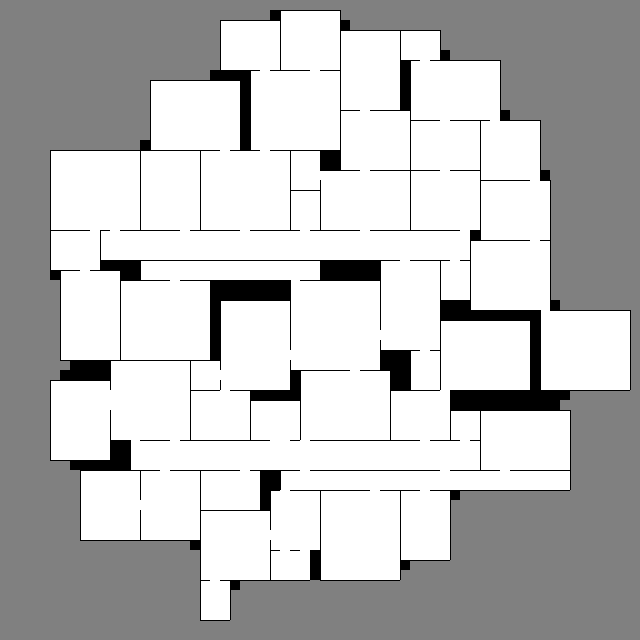
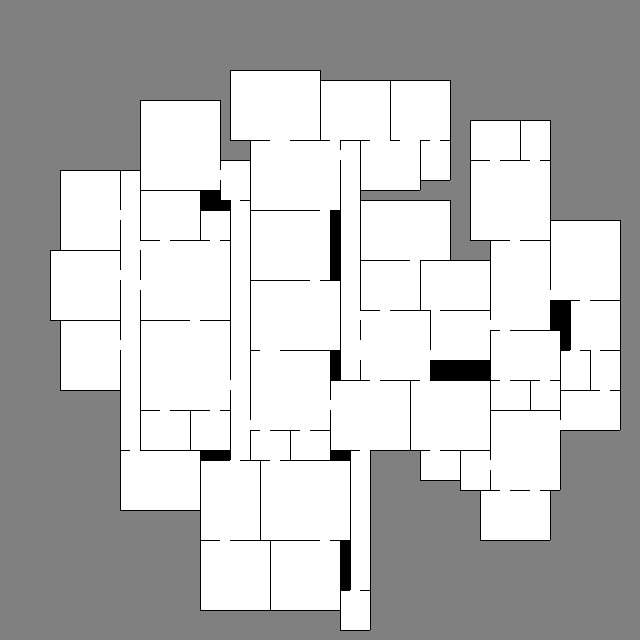
need better room generation

diff --git a/src/generators/buildings.rs b/src/generators/buildings.rs
@@ -248,51 +248,103 @@ pub fn generate_ground_floor(width: i32, height: i32) -> Floor {
     let mut floor = Floor::new_blank(width, height);
     let previous_floor = Floor::new_occupied(width, height);
     let mut has_another_room = false;
-    let mut collection = Vec::new();
     while let Some(x) = generate_room(&mut floor, &previous_floor, has_another_room) {
-        collection.push(x);
+        floor.rooms.push(x);
         has_another_room = true;
     }
-    floor.rooms = collection;
     floor
 }
 
 pub fn post_process_floor(floor: &mut Floor, width: i32, height: i32, circular: bool) {
-    'outer: loop {
-        let cx = floor.width() / 2;
-        let cy = floor.height() / 2;
-
-        for i in 0..floor.rooms.len() {
-            let mut hit = false;
-            for j in &floor.rooms[i].points {
-                let dx = j.x - cx;
-                let dy = j.y - cy;
-                if circular {
-                    let r2 = (width + height) * (width + height) / 4;
-                    if (dx * dx + dy * dy) > r2 {
-                        hit = true;
-                        break;
-                    }
-                } else {
-                    if dx.abs() > width || dy.abs() > height {
-                        hit = true;
-                        break;
-                    }
+    for j in 0..floor.rooms.len() {
+        let i = floor.rooms[j].clone();
+        let mut border_positions = Vec::new();
+        let point = Point {
+            x: i.min_x,
+            y: i.min_y,
+        };
+        let height = (i.max_y - i.min_y).abs();
+        let width = (i.max_x - i.min_x).abs();
+        let x_pos = i.min_x - 1;
+        for dy in point.y..point.y + height {
+            if let Some(t) = floor.get_checked(x_pos, dy) {
+                if t.is_occupied {
+                    border_positions.push(Point { x: x_pos, y: dy })
                 }
             }
-            if hit {
-                let t = floor.rooms.remove(i);
-                for j in &t.points {
-                    floor.get_mut(j.x, j.y).is_occupied = false;
-                    floor.get_mut(j.x, j.y).sides = [SideKind::Empty; 4];
-                    for k in &mut floor.rooms {
-                        k.boundary_positions.retain(|i| *i != *j);
+        }
+        let x_pos = point.x + width + 1;
+        for dy in point.y..point.y + height {
+            if let Some(t) = floor.get_checked(x_pos, dy) {
+                if t.is_occupied {
+                    border_positions.push(Point { x: x_pos, y: dy })
+                }
+            }
+        }
+        let y_pos = point.y - 1;
+        for dx in point.x..point.x + width {
+            if let Some(t) = floor.get_checked(dx, y_pos) {
+                if t.is_occupied {
+                    border_positions.push(Point { x: dx, y: y_pos })
+                }
+            }
+        }
+        let y_pos = point.y + height + 1;
+        for dx in point.x..point.x + width {
+            if let Some(t) = floor.get_checked(dx, y_pos) {
+                if t.is_occupied {
+                    border_positions.push(Point { x: dx, y: y_pos })
+                }
+            }
+        }
+        floor.rooms[j].boundary_positions = border_positions;
+    }
+    let mut last_hit = false;
+    for _ in 0..1 {
+        'outer: loop {
+            let cx = floor.width() / 2;
+            let cy = floor.height() / 2;
+            for i in 0..floor.rooms.len() {
+                let mut hit = false;
+                if floor.rooms[i].boundary_positions.len() < 5 {
+                    hit = true;
+                }
+                for j in &floor.rooms[i].points {
+                    let dx = j.x - cx;
+                    let dy = j.y - cy;
+                    if circular {
+                        let r2 = ((width + height) * (width + height) / 4).isqrt();
+                        if (dx * dx + dy * dy).isqrt() > r2 {
+                            hit = true;
+                            break;
+                        }
+                    } else {
+                        if dx.abs() > width || dy.abs() > height {
+                            hit = true;
+                            break;
+                        }
                     }
                 }
+                if hit {
+                    let t = floor.rooms.remove(i);
+                    for j in &t.points {
+                        floor.get_mut(j.x, j.y).is_occupied = false;
+                        floor.get_mut(j.x, j.y).is_wall = false;
+                        floor.get_mut(j.x, j.y).sides = [SideKind::Empty; 4];
+                        for k in &mut floor.rooms {
+                            k.boundary_positions.retain(|i| *i != *j);
+                        }
+                    }
+                    last_hit = true;
+                    continue 'outer;
+                };
+            }
+            if last_hit {
+                last_hit = false;
                 continue 'outer;
-            };
+            }
+            break 'outer;
         }
-        break 'outer;
     }
     'outer: loop {
         let mut updated = false;
@@ -302,6 +354,7 @@ pub fn post_process_floor(floor: &mut Floor, width: i32, height: i32, circular: 
                     continue;
                 }
                 let mut count = 0;
+                let mut acount = 0;
                 for dy in -1..=1 {
                     for dx in -1..=1 {
                         if dx == 0 && dy == 0 {
@@ -309,15 +362,51 @@ pub fn post_process_floor(floor: &mut Floor, width: i32, height: i32, circular: 
                         }
                         if let Some(t) = floor.get_checked(j + dx, i + dy) {
                             if t.is_occupied && !t.is_wall {
-                                count += 4;
+                                acount += 1;
                             } else if t.is_occupied {
-                                count += 2;
+                                count += 1;
                             }
                         }
                     }
-                    if count >= 16 {
+                    if count >= 5 || acount >= 2 {
                         floor.get_mut(j, i).is_occupied = true;
                         floor.get_mut(j, i).is_wall = true;
+                        updated = true;
+                    }
+                }
+            }
+        }
+        if !updated {
+            break 'outer;
+        }
+    }
+    let mut fs = 0;
+    'outer: loop {
+        fs += 1;
+        if fs > 10 {
+            break;
+        }
+        let mut updated = false;
+        for i in 0..floor.height() {
+            for j in 0..floor.width() {
+                if !floor.get(j, i).is_occupied || !floor.get(j, i).is_wall {
+                    continue;
+                }
+                let mut count = 0;
+                for dy in -1..=1 {
+                    for dx in -1..=1 {
+                        if dx == 0 && dy == 0 {
+                            continue;
+                        }
+                        if let Some(t) = floor.get_checked(j + dx, i + dy) {
+                            if !t.is_occupied {
+                                count += 1;
+                            }
+                        }
+                    }
+                    if count > 0 {
+                        floor.get_mut(j, i).is_occupied = false;
+                        floor.get_mut(j, i).is_wall = false;
                         updated = true;
                     }
                 }
@@ -334,7 +423,7 @@ pub fn post_process_floor(floor: &mut Floor, width: i32, height: i32, circular: 
     }
     let mut base_list: Vec<usize> = (0..floor.rooms.len()).collect();
     let l = base_list.len();
-    for _ in 0..4 {
+    for _ in 0..8 {
         for i in 0..l {
             base_list.push(base_list[i]);
         }
@@ -347,7 +436,7 @@ pub fn post_process_floor(floor: &mut Floor, width: i32, height: i32, circular: 
     let mut best_count = 0;
     let mut best_connections = HashSet::new();
     'outer: loop {
-        if no_progress_count > 4 {
+        if no_progress_count > 2 {
             no_progress_count = 0;
             if base_list.is_empty() {
                 *floor = best;
@@ -378,7 +467,7 @@ pub fn post_process_floor(floor: &mut Floor, width: i32, height: i32, circular: 
                 {
                     20
                 } else {
-                    4
+                    10
                 };
                 if red_count[j] > mc {
                     continue;
@@ -387,7 +476,7 @@ pub fn post_process_floor(floor: &mut Floor, width: i32, height: i32, circular: 
             }
             let mut points = Vec::new();
             let v = &floor.rooms[j];
-            let delt = if no_progress_count > 1 { -1 } else { 1 };
+            let delt = if no_progress_count > 0 { -2 } else { 1 };
             for i in v.min_x + delt..=v.max_x - delt {
                 points.push(Point {
                     x: i,
@@ -420,14 +509,14 @@ pub fn post_process_floor(floor: &mut Floor, width: i32, height: i32, circular: 
                     {
                         20
                     } else {
-                        2
+                        10
                     };
                     let mc1 = if (floor.rooms[j].max_x - floor.rooms[j].min_x).abs() > 10
                         || (floor.rooms[j].max_y - floor.rooms[j].min_y).abs() > 10
                     {
                         20
                     } else {
-                        2
+                        10
                     };
                     if red_count[k] > mc && red_count[j] > mc1 {
                         continue;
@@ -481,6 +570,23 @@ pub fn post_process_floor(floor: &mut Floor, width: i32, height: i32, circular: 
         connected_set.len(),
         floor.rooms.len()
     );
+    let mut r2 = Vec::new();
+    for i in 0..floor.rooms.len() {
+        if connected_set.contains(&i) {
+            r2.push(floor.rooms[i].clone());
+        } else {
+            let x = floor.rooms[i].clone();
+            for j in &x.points {
+                floor.get_mut(j.x, j.y).is_occupied = false;
+                floor.get_mut(j.x, j.y).is_wall = false;
+                floor.get_mut(j.x, j.y).sides = [SideKind::Empty; 4];
+                for k in &mut floor.rooms {
+                    k.boundary_positions.retain(|i| *i != *j);
+                }
+            }
+        }
+    }
+    floor.rooms = r2;
 }
 
 pub fn generate_room(floor: &mut Floor, previous: &Floor, has_another_room: bool) -> Option<Room> {
@@ -536,26 +642,50 @@ pub fn try_generate_room(
     previous: &Floor,
     has_another_room: bool,
 ) -> Option<Room> {
+    let mut lc = 0;
+    for i in &floor.rooms {
+        if (i.max_x - i.min_x).abs() >= 15 || (i.max_y - i.min_y).abs() >= 15 {
+            let mut dist = 100000000;
+            for dx in 0..30 {
+                for y in i.min_y..=i.max_y {
+                    for x in i.min_x..=i.max_x {
+                        let d = ((point.x + dx - x) * (point.x + dx - x)
+                            + (point.y - y) * (point.y - y))
+                            .isqrt();
+                        if d < dist {
+                            dist = d;
+                        }
+                    }
+                }
+            }
+            for dy in 0..30 {
+                for y in i.min_y..=i.max_y {
+                    for x in i.min_x..=i.max_x {
+                        let d = ((point.x - x) * (point.x - x)
+                            + (point.y + dy - y) * (point.y + dy - y))
+                            .isqrt();
+                        if d < dist {
+                            dist = d;
+                        }
+                    }
+                }
+            }
+            if dist < 10 {
+                lc += 1;
+            }
+        }
+    }
     let mut values = Vec::new();
     let mut first = true;
     'gt: loop {
-        let mut bases: Vec<(i32, i32)> = if has_another_room {
-            if first {
-                (5..10).flat_map(|h| (5..10).map(move |w| (w, h))).collect()
-            } else {
-                (3..8).flat_map(|h| (3..8).map(move |w| (w, h))).collect()
-            }
+        let mut bases: Vec<(i32, i32)> = if first {
+            (5..10).flat_map(|h| (5..10).map(move |w| (w, h))).collect()
         } else {
-            Vec::new()
+            (3..8).flat_map(|h| (3..8).map(move |w| (w, h))).collect()
         };
-        if (!has_another_room || (floor.rooms.len() % 32 == 0 && (random::<u32>() % 1000 < 40)))
-            && ((point.x - floor.width() / 2) * (point.x - floor.width() / 2)
-                + (point.y - floor.height() / 2) * (point.y - floor.height() / 2))
-                .isqrt()
-                < 40
-        {
-            for k in 2..=3 {
-                for j in 15..40 {
+        if lc < 1 {
+            for k in 2..=2 as i32 {
+                for j in 10..=30 {
                     bases.push((k, j));
                     bases.push((j, k));
                 }
@@ -571,7 +701,7 @@ pub fn try_generate_room(
                     height as f32 / width as f32
                 }
             };
-            if ratio > 1.5 && ratio < 3. {
+            if ratio > 1.5 && ratio < 5. {
                 continue;
             }
             let mut points = Vec::new();

diff --git a/src/main.rs b/src/main.rs
@@ -23,7 +23,7 @@ pub async fn main() {
     handle.set_exit_key(None);
     builder::game_loop(&mut handle, &thread, None).await;*/
     let mut g = generate_ground_floor(64, 64);
-    post_process_floor(&mut g, 32, 32, true);
+    post_process_floor(&mut g, 30, 30, true);
     println!("{}", g.rooms.len());
     g.render("test.png");
 }
